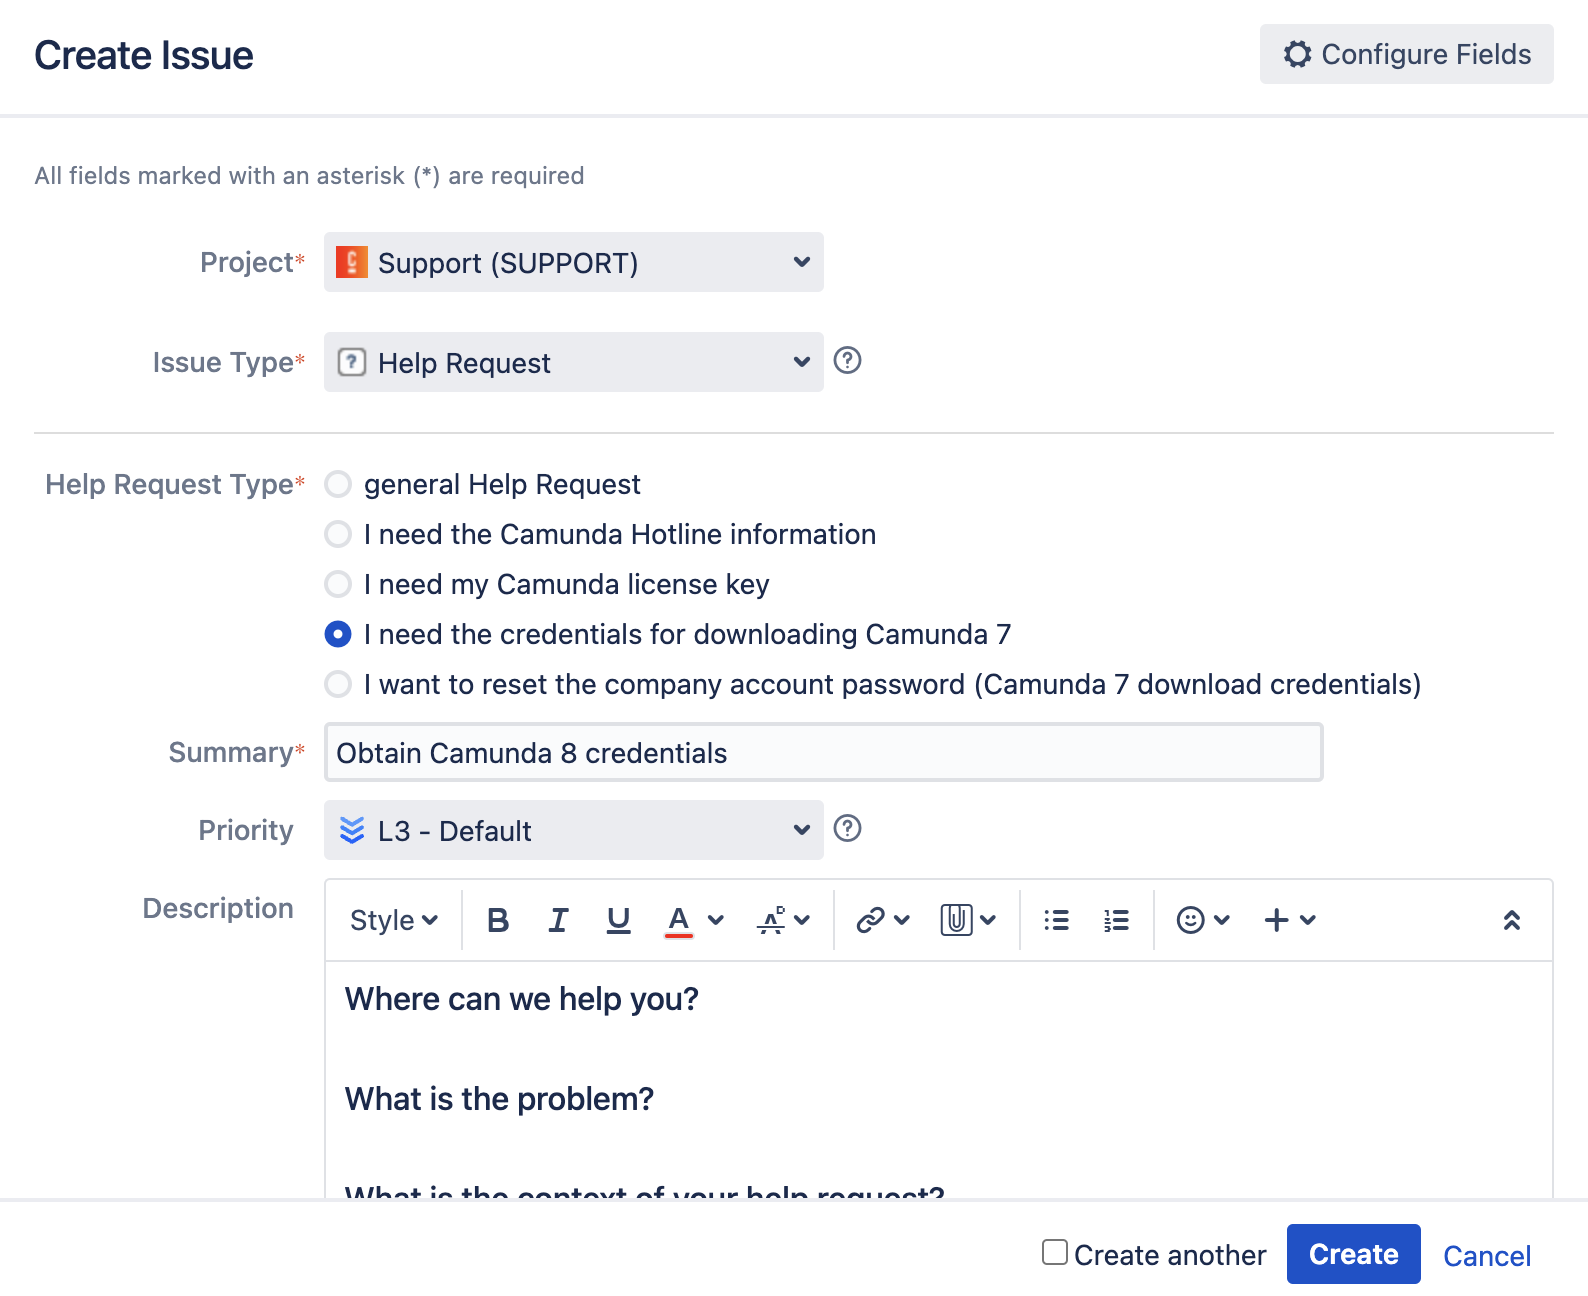
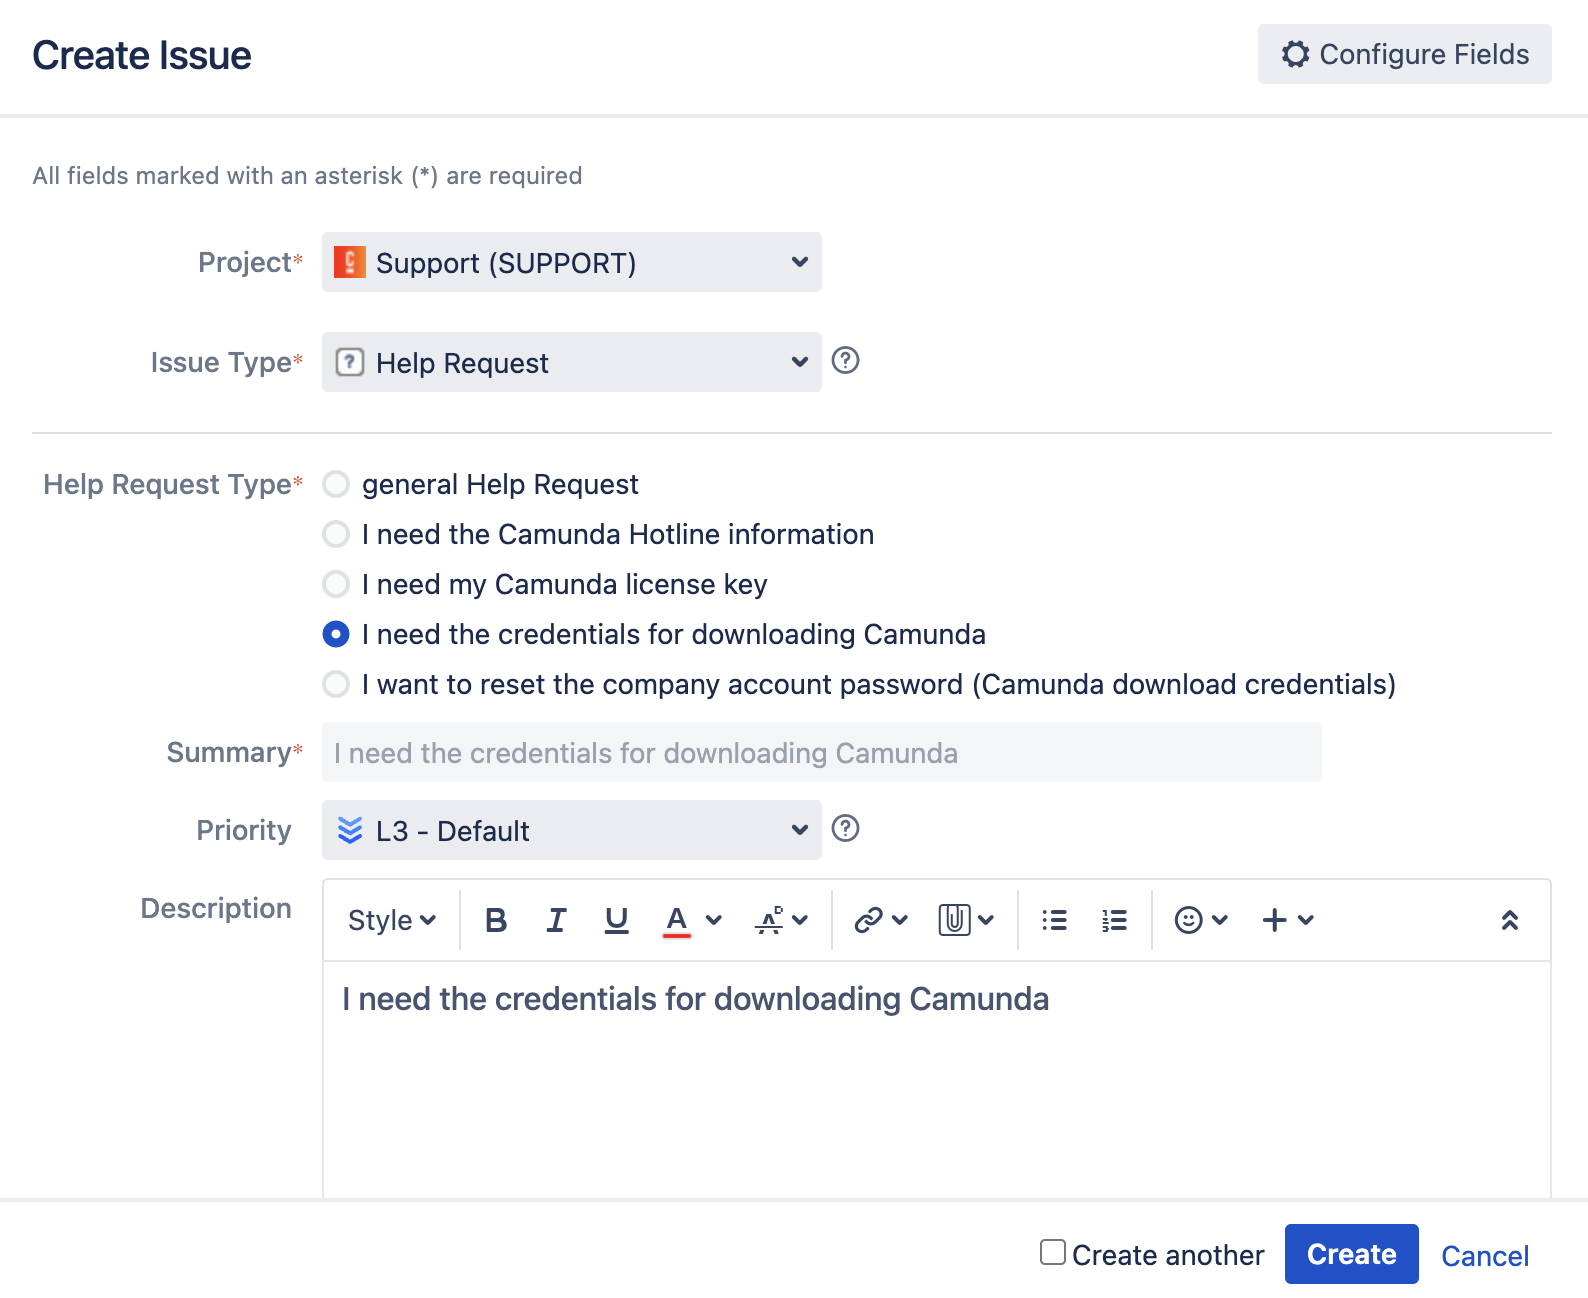
update UI references

diff --git a/src/pages/contact.md b/src/pages/contact.md
@@ -37,10 +37,10 @@ Need assistance locating your Camunda 8 credentials? You can obtain these creden
 1. Log in to [Jira](https://jira.camunda.com/secure/Dashboard.jspa).
 2. Click **Create** in the navigation bar at the top of the page. This launches a **Create Issue** pop-up.
 3. In the **Issue Type** field, select **Help Request**.
-4. In the **Help Request Type** field, click the option that reads **I need the credentials for downloading Camunda 7**.
-5. In the **Summary** field, briefly describe the purpose of your help request. For example, `Obtain Camunda 8 credentials`.
+4. In the **Help Request Type** field, click the option that reads **I need the credentials for downloading Camunda**.
+5. In the **Summary** and **Description** fields, **I need the credentials for downloading Camunda** will populate by default.
    ![completed help request example](./img/create-issue-request.png)
-6. (Optional) Add more details, such as the priority level, a description, or authorized support contacts.
+6. (Optional) Add more details, such as the priority level or authorized support contacts.
 7. Click **Create** at the bottom of the pop-up **Create Issue** box.
 
 After completing these steps, your request is generated. Find additional details on submitting a self-service help request [here](https://docs.camunda.org/enterprise/support/#self-service-help-request).
